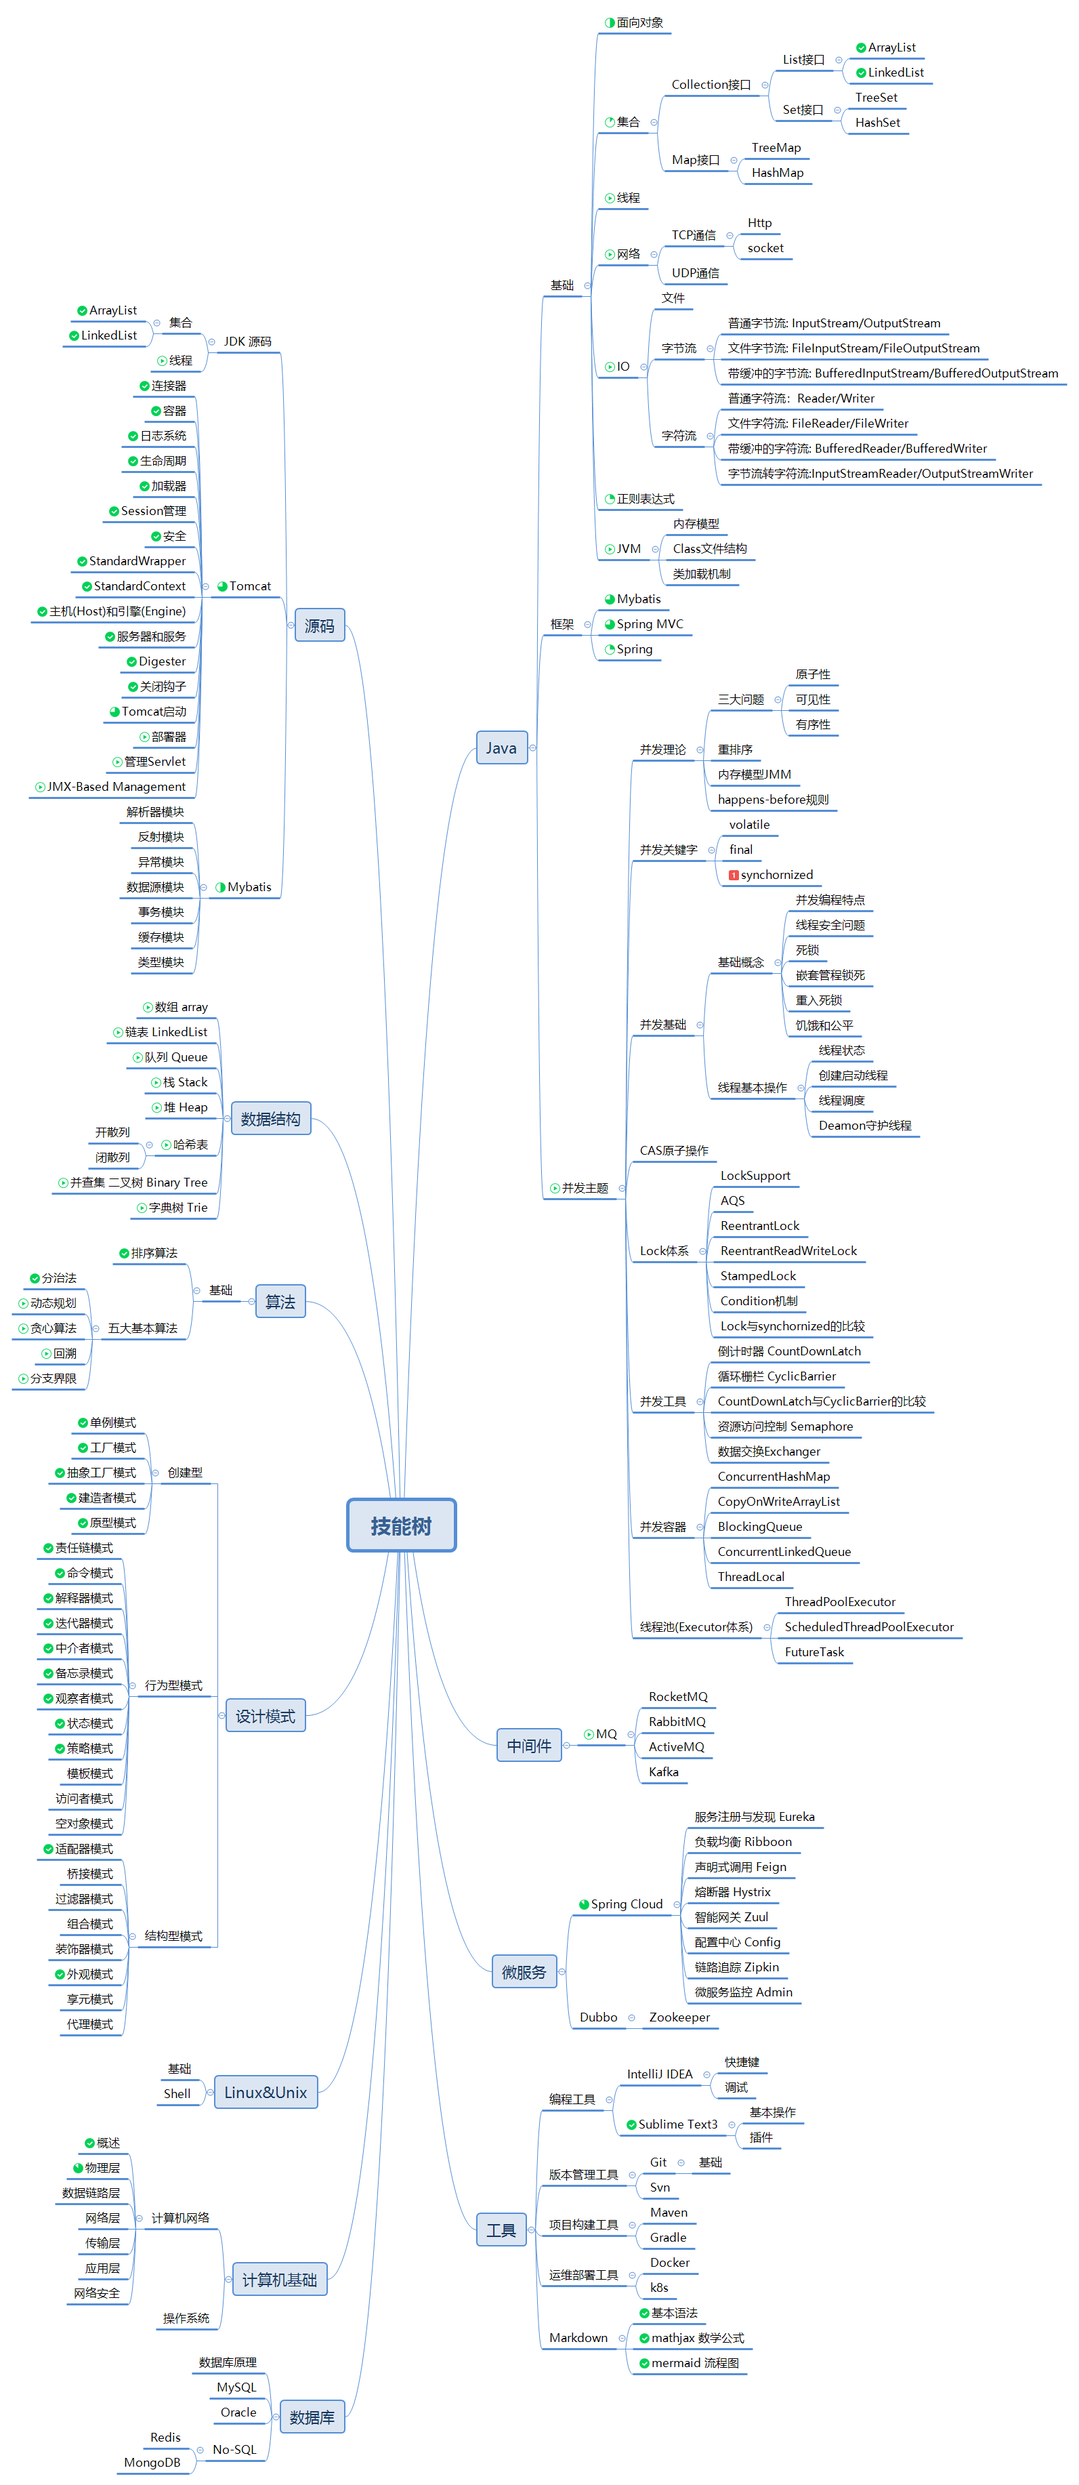
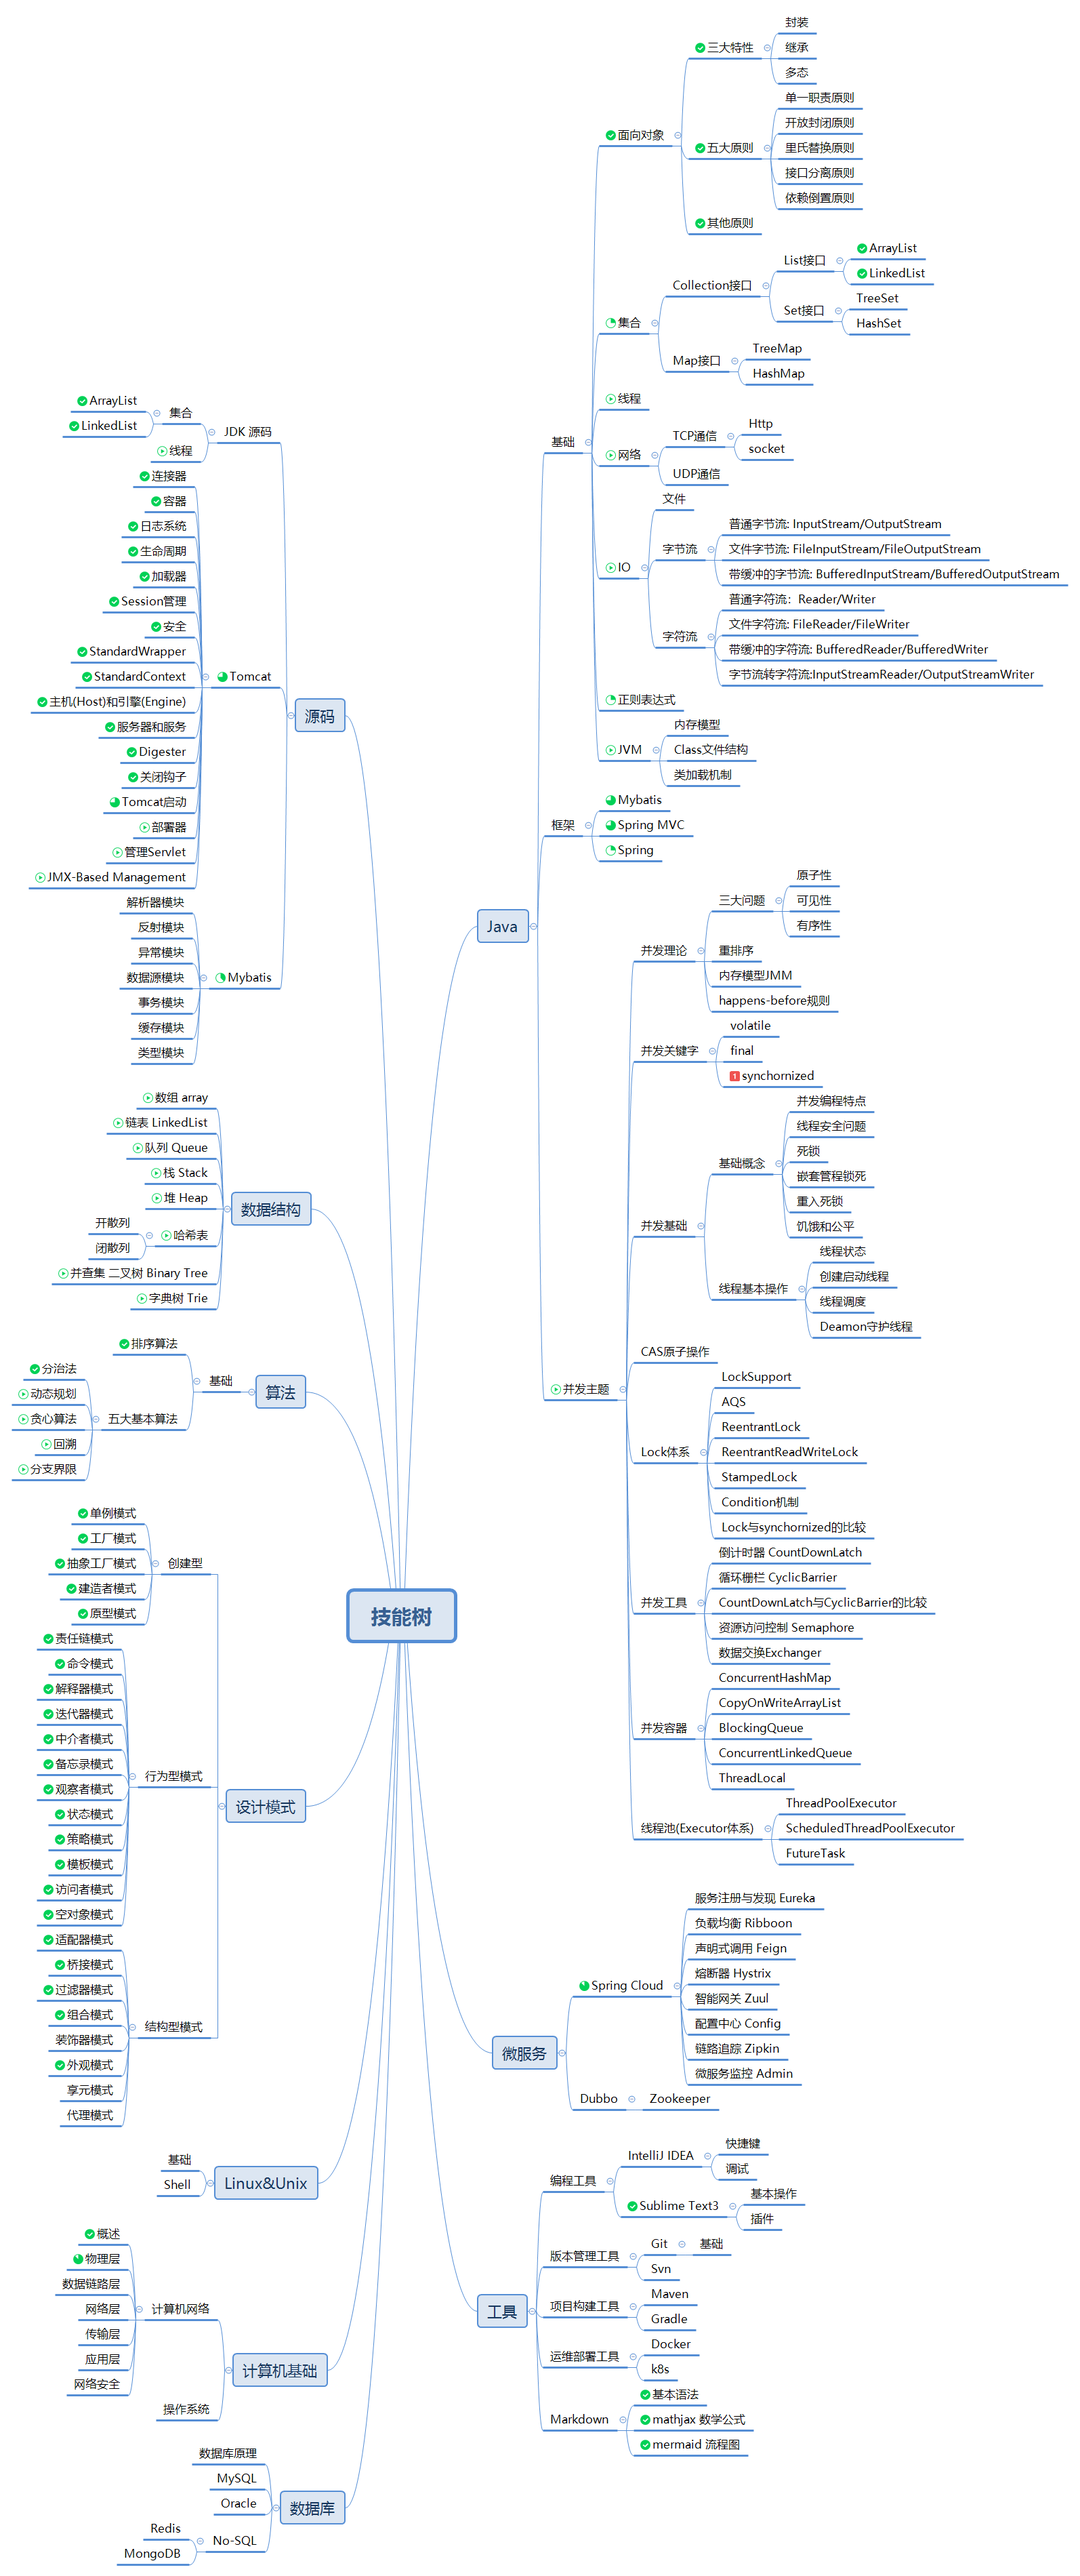
update

diff --git a/source/_posts/Java-面向对象.md b/source/_posts/Java-面向对象.md
@@ -1,0 +1,195 @@
+---
+title: Java-面向对象
+abbrlink: 2742829166
+date: 2019-12-19 20:32:20
+categories:
+  - Java
+  - Basic
+tags:
+  - 面向对象思想
+author: 长歌
+---
+
+{% cq %}
+Java是一门面向对象的编程语言
+{% endcq %}
+<!-- More -->
+
+## 三大特性
+
+### 封装
+
+> 封装是指隐藏对象的属性和实现细节，仅对外提供公共访问方式。封装最主要的功能是我们可以修改自己的实现代码，而不用去修改调用我们代码的程序.
+
+- 封装的好处
+  1. 提高了数据的安全性
+  2. 减少耦合
+  3. 可以对成员变量进行更精确的控制
+  4. 隐藏实现，程序实现过程对调用者不可见
+- 实现封装
+
+```java
+public class Person {
+
+    private String name;
+    private int gender;
+    private int age;
+
+    public String getName() {
+        return name;
+    }
+
+    public String getGender() {
+        return gender == 0 ? "man" : "woman";
+    }
+
+    public void work() {
+        if (18 <= age && age <= 50) {
+            System.out.println(name + " is working very hard!");
+        } else {
+            System.out.println(name + " can't work any more!");
+        }
+    }
+}
+```
+
+- 封装通过关键字`private`实现，可以有属性的封装、方法的封装
+
+### 继承
+
+>  继承实现了 **IS-A** 关系，例如 Cat 和 Animal 就是一种 IS-A 关系，因此 Cat 可以继承自 Animal，从而获得 Animal 非 private 的属性和方法。   
+
+ 继承应该遵循里氏替换原则，子类对象必须能够替换掉所有父类对象。   
+
+ Cat 可以当做 Animal 来使用，也就是说可以使用 Animal 引用 Cat 对象。父类引用指向子类对象称为 **向上转型** 。 
+
+```java
+Animal animal = new Cat();
+```
+
+
+
+### 多态
+
+> 多态主要分为编译时多态和运行时多态:
+>
+> - 编译时多态主要指方法的重载
+> - 运行时多态指程序中定义的对象引用所指向的具体类型在运行期间才确定
+
+运行时多态有三个条件:
+
+- 继承
+- 覆盖(重写)
+- 向上转型
+
+```java
+public class Animal{
+    public void call(){
+        System.out.println("Animal's call");
+    }
+}
+public class Dog extends Animal{
+    public void call(){
+        System.out.println("汪..汪.!!!");
+    } 
+}
+
+public class Cat extends Animal{
+    public void call(){
+        System.out.println("喵.喵喵..!!!");
+    }
+}
+public class Zoo{
+    public static void main(Strin[] args){
+        Animal dog = new Dog();
+        Animal cat = new Cat();
+        dog.call();
+        cat.call();
+    }
+}
+```
+
+```tex
+汪..汪.!!!
+喵.喵喵..!!!
+```
+
+
+
+
+
+## 五大设计原则
+| 简写 | 全拼                                | 中文翻译     |
+| ---- | ----------------------------------- | ------------ |
+| SRP  | The Single Responsibility Principle | 单一责任原则 |
+| OCP  | The Open Closed Principle           | 开放封闭原则 |
+| LSP  | The Liskov Substitution Principle   | 里氏替换原则 |
+| ISP  | The Interface Segregation Principle | 接口分离原则 |
+| DIP  | The Dependency Inversion Principle  | 依赖倒置原则 |
+
+### 单一责任原则
+
+> 修改一个类的原因应该只有一个
+
+一个类只负责一件事，一个类承担的职责过多，就等于把这些职责耦合在了一起
+
+### 开放封闭原则
+
+>  类应该对扩展开放，对修改关闭。 
+
+对类进行功能扩展时，不需要修改原代码。最符合开放封闭原则模式的是[装饰者模式]()
+
+### 里氏替换原则
+
+> 子类对象必须能够替换掉所有父类对象
+
+子类必须可以当成父类来使用，保证继承体系的统一性
+
+### 接口分离原则
+
+> 不应该强迫客户依赖于它们不用的方法。
+
+每个接口专用，而不是将所有功能聚合到一个接口里
+
+### 依赖倒置原则
+
+> 高层模块不应该依赖于低层模块，二者都应该依赖于抽象
+>
+> 抽象不应该依赖于细节，细节应该依赖于抽象
+
+高层模块包含一个应用程序中重要的策略选择和业务模块，如果高层模块依赖于低层模块，低层模块的改动就会直接影响到高层模块。从而使高层模块也需要改动   
+
+依赖于抽象意味着:
+
+-  任何变量都不应该持有一个指向具体类的指针或者引用； 
+-  任何类都不应该从具体类派生； 
+-  任何方法都不应该覆写它的任何基类中的已经实现的方法。 
+
+## 其他原则
+| 简写 | 全拼                              | 中文翻译     |
+| ---- | --------------------------------- | ------------ |
+| LOD  | The Law of Demeter                | 迪米特法则   |
+| CRP  | The Composite Reuse Principle     | 合成复用原则 |
+| CCP  | The Common Closure Principle      | 共同封闭原则 |
+| SAP  | The Stable Abstractions Principle | 稳定抽象原则 |
+| SDP  | The Stable Dependencies Principle | 稳定依赖原则 |
+
+### 迪米特法则
+
+ 迪米特法则又叫作最少知识原则（Least Knowledge Principle，简写 LKP），就是说一个对象应当对其他对象有尽可能少的了解，不和陌生人说话。 
+
+### 合成复用原则
+
+ 尽量使用对象组合，而不是通过继承来达到复用的目的。 
+
+### 共同封闭原则
+
+ 一起修改的类，应该组合在一起（同一个包里）。如果必须修改应用程序里的代码，我们希望所有的修改都发生在一个包里（修改关闭），而不是遍布在很多包里。 
+
+### 稳定抽象原则
+
+ 最稳定的包应该是最抽象的包，不稳定的包应该是具体的包，即包的抽象程度跟它的稳定性成正比。 
+
+### 稳定依赖原则
+
+ 包之间的依赖关系都应该是稳定方向依赖的，包要依赖的包要比自己更具有稳定性。 

diff --git a/source/_posts/目录.md b/source/_posts/目录.md
@@ -95,7 +95,8 @@ date: 2019-10-14 00:00:00
         - basic(基础)
             - Date&Time(日期)
                 - [x] [java8 处理日期和时间](../detail/2517593741.html)
-
+            - 面向对象思想
+                - [x] [Java-面向对象思想](../detail/2742829166.html)
         - opensource(开源代码)
             - [Tomcat(Hot Tomcat Worls)](../categories/Java/Tomcat)
                 - [x] [编码前准备](../detail/1805298928.html)
